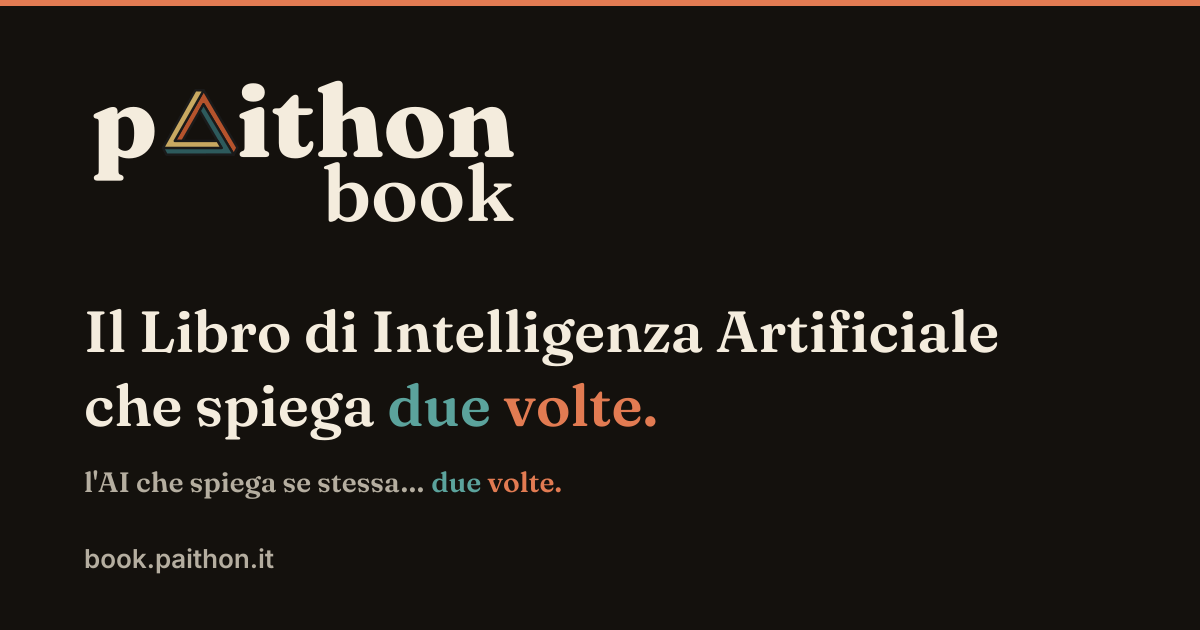
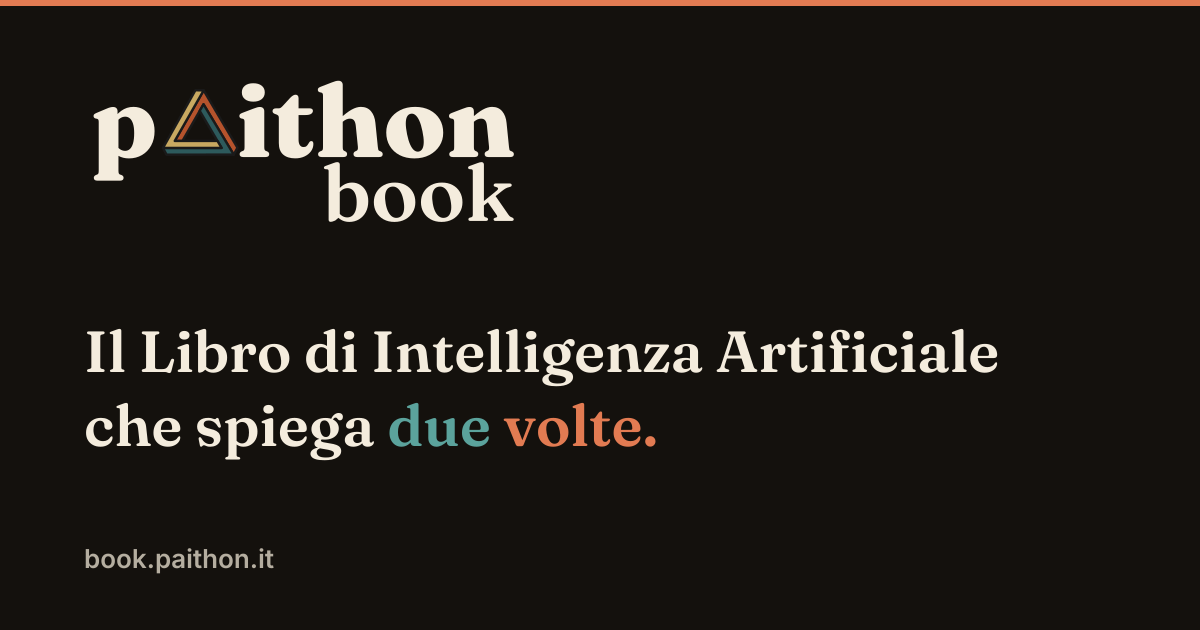
Paithon Book 1.5.8
Include:

- feat(deploy): il deposito su Zenodo, e le dipendenze dichiarate in un file
- content(landing): «Leggilo nel browser», e basta
- fix(marchio): una riga sola per superficie, ed è il claim
- content(dati): i dati sono per le macchine quello che l'ossigeno è per noi
- content(conclusioni): il campo di casa, cioè dove la domanda «è più brava di noi» ha senso
- content(conclusioni): due compiti invece di tre, e detti in chiaro
- chore(radice): sitemap

Pubblicato-da: ac65393389c9e2d87e515f6cdc7a496b0f0d6da9

Changed region(s): [[0.0617, 0.4825, 0.8325, 0.7841]]

diff --git a/book/_static/head_custom.html b/book/_static/head_custom.html
@@ -83,9 +83,6 @@
       aggiornamenti si presentavano a Google e a chi condivideva il link come
       se fossero la copertina del libro. -#}
 {%- set pt_claim = 'Paithon Book: Il Libro di Intelligenza Artificiale che spiega due volte.' -%}
-{#- Il testo alternativo della card social descrive la card, quindi porta
-    tutte e due le righe che ci stanno stampate: il claim e il sottotesto. -#}
-{%- set pt_card_alt = pt_claim ~ ' l\'AI che spiega se stessa… due volte.' -%}
 {%- set pt_sommario_libro = 'Libro di Intelligenza Artificiale in italiano, su due livelli: Elementare per chi parte da zero, Superiore per la trattazione formale. Machine Learning, Deep Learning e Reinforcement Learning con Python. Online, gratuito, in aggiornamento continuo.' -%}
 {#- Le pagine di servizio del tema (l'indice dei termini, la ricerca) non sono
     contenuto: nessun dato strutturato e `noindex`, o finiscono nei risultati al
@@ -108,13 +105,13 @@
 <meta property="og:image:type" content="image/png">
 <meta property="og:image:width" content="1200">
 <meta property="og:image:height" content="630">
-<meta property="og:image:alt" content="{{ pt_card_alt | e }}">
+<meta property="og:image:alt" content="{{ pt_claim | e }}">
 
 <!-- Twitter Card -->
 <meta name="twitter:card" content="summary_large_image">
 <meta name="twitter:title" content="{{ pt_titolo | e }}">
 <meta name="twitter:image" content="https://book.paithon.it/main/_static/social/og-book.png">
-<meta name="twitter:image:alt" content="{{ pt_card_alt | e }}">
+<meta name="twitter:image:alt" content="{{ pt_claim | e }}">
 <meta name="twitter:description" content="{{ pt_sommario | e }}">
 
 <!-- SEO Meta Tags -->

diff --git a/book/_ext/pt_stampa.py b/book/_ext/pt_stampa.py
@@ -516,9 +516,11 @@ FRONTESPIZIO = r"""
   % (LuaLaTeX non se ne lamenta: la copertina «riesce» lo stesso). Chi tocca
   % il corpo del claim, la larghezza del marchio o uno di questi \vspace
   % rifaccia il conto: `genera-pdf.py` lo verifica da se' a fine build, e con
-  % questi valori il margine e' meno di 4mm.
+  % questi valori il margine e' una decina di millimetri: tolto il sottotesto
+  % la copertina ha ritrovato spazio, e una parte e' tornata al marchio e
+  % all'aria sopra la firma invece di restare margine inutilizzato.
   \IfFileExists{marchio.pdf}{%
-    \includegraphics[width=88mm]{marchio.pdf}\par\vspace{5mm}}{%
+    \includegraphics[width=96mm]{marchio.pdf}\par\vspace{5mm}}{%
     {\ptDisplay\fontsize{50}{54}\selectfont Paithon Book\par}\vspace{4mm}}%
   {\color{ptTerracotta}\rule{42mm}{2.4pt}\par}
   \vspace{5mm}
@@ -531,22 +533,17 @@ FRONTESPIZIO = r"""
   {\ptDisplay\fontsize{22}{27}\selectfont
    Il Libro di Intelligenza Artificiale\\
    che spiega \textcolor{ptTeal}{due} \textcolor{ptTerracotta}{volte.}\par}
-  \vspace{3mm}
-  % Il sottotesto: dice come il libro e' fatto, non di che cosa parla. La
-  % Prefazione lo spiega per esteso.
-  % «due» e «volte» nei colori dei due livelli, gli stessi del sito: teal per
-  % l'Elementare, terracotta per il Superiore. Vanno in quest'ordine e non
-  % nell'altro: sul sito «due» e' `--accent-color`, che e' il verde petrolio.
-  % I puntini sono suoi e restano suoi: nel claim non ci vanno, o la stessa
-  % sospensione si ripeterebbe due volte a quattro righe di distanza.
-  {\ptDisplayLeggero\itshape\fontsize{16}{21}\selectfont
-   l'AI che spiega se stessa\ldots{}
-   \textcolor{ptTeal}{due} \textcolor{ptTerracotta}{volte.}\par}
+  % QUI SOTTO NON VA IL SOTTOTESTO, e per un po' c'e' stato. «l'AI che spiega
+  % se stessa... due volte» e' una riga bella, ma sotto al claim diventa un'eco:
+  % finiscono tutte e due su «due volte», a quattro centimetri di distanza, e
+  % la seconda sembra la prima detta peggio. Una copertina dice una cosa. Il
+  % sottotesto resta dov'e' una postilla e non un secondo titolo, cioe' sulla
+  % landing, dove la Prefazione poi lo spiega per esteso.
   % Il sottotitolo lungo («Machine Learning, Deep Learning e Reinforcement
   % Learning con Python») non e' in copertina: dice di che cosa parla il
   % libro, e il sottotesto dice gia' che cos'e'. Resta nel colophon, dove
   % serve per citarlo: li' e' un dato bibliografico, non un richiamo.
-  \vspace{8mm}
+  \vspace{12mm}
   {\ptDisplay\Large Francesco Messina\par}
 \end{flushleft}
 \vspace*{\stretch{1}}

diff --git a/scripts/genera-pdf.py b/scripts/genera-pdf.py
@@ -246,6 +246,19 @@ def rilascia(pdf: pathlib.Path, conferma: bool) -> None:
     if not pdf.exists():
         sys.exit(f"il PDF non c'e': {pdf}. Prima si costruisce.")
 
+    # IL NUMERO E IL FILE ARRIVANO DA DUE POSTI DIVERSI, e non e' un dettaglio:
+    # il numero lo dice il registro, il file sta su disco, e finche' non li si
+    # confronta possono raccontare due versioni diverse. E' successo: la 1.5.7
+    # e' uscita con dentro un PDF che in copertina diceva 1.5.6, perche' era
+    # stato costruito prima di aggiungere la voce al registro. Nessuno se n'era
+    # accorto perche' tutto funzionava, e il numero giusto lo scriveva il tag.
+    # La copertina il numero lo stampa: si legge di li'.
+    stampata = versione_stampata(pdf)
+    if stampata and stampata != numero:
+        sys.exit(f"il PDF in copertina dice {stampata}, il registro {numero}: "
+                 f"e' il PDF di un'altra versione.\n"
+                 f"  Ricostruiscilo: python3 scripts/genera-pdf.py")
+
     # CHI firma. Una release porta il nome dell'account attivo di `gh`, e su
     # questa macchina ce n'e' piu' di uno: il primo giro sarebbe uscito a nome
     # di un account personale invece che del progetto. Non e' un dettaglio
@@ -321,6 +334,22 @@ def ricompatta(pdf: pathlib.Path) -> None:
               f"-> {pdf.stat().st_size / 1024 / 1024:.0f} MB")
 
 
+def versione_stampata(pdf: pathlib.Path) -> str | None:
+    """Il numero che il PDF si porta stampato sulla copertina.
+
+    Il nome del file non lo dice (e' sempre lo stesso) e la data di modifica
+    nemmeno. La copertina invece porta «1.5.7 del 15 agosto 2026», scritto dal
+    registro nel momento in cui il libro e' stato composto: e' l'unica prova
+    di quale versione sia davvero quel file.
+    """
+    try:
+        import fitz
+    except ImportError:
+        return None
+    trovato = re.search(r"\b(\d+\.\d+\.\d+) del ", fitz.open(pdf)[0].get_text())
+    return trovato.group(1) if trovato else None
+
+
 def copertina_intera(pdf: pathlib.Path) -> str | None:
     """La copertina sta ancora in una pagina sola?
 
@@ -344,7 +373,7 @@ def copertina_intera(pdf: pathlib.Path) -> str | None:
     testo = prima.get_text()
     manca = [nome for nome, presente in (
         ("il claim", "che spiega due volte" in testo),
-        ("il sottotesto", "spiega se stessa" in testo),
+        ("l'autore", "Francesco Messina" in testo),
         ("l'indirizzo del libro", "book.paithon.it" in testo),
         ("il fregio", len(prima.get_drawings()) > 100),
     ) if not presente]

diff --git a/scripts/genera-og.py b/scripts/genera-og.py
@@ -52,11 +52,10 @@ CLAIM = [
     [("Il Libro di Intelligenza Artificiale", INCHIOSTRO)],
     [("che spiega ", INCHIOSTRO), ("due ", TEAL), ("volte.", TERRACOTTA)],
 ]
-# Il sottotesto, la riga che sulla landing sta sotto il claim e che in stampa
-# è in copertina. Qui mancava, e la card diceva metà di quello che dicono le
-# altre superfici. I puntini sono suoi: nel claim non ci vanno.
-SOTTOTESTO = [("l'AI che spiega se stessa… ", TENUE), ("due ", TEAL),
-              ("volte.", TERRACOTTA)]
+# Il sottotesto («l'AI che spiega se stessa… due volte») qui NON ci va, e per
+# un po' c'è stato: sotto al claim diventa un'eco, perché finiscono tutte e due
+# su «due volte» e la seconda sembra la prima detta peggio. Una card dice una
+# cosa sola. Il sottotesto vive sulla landing, dov'è una postilla.
 PIEDE = "book.paithon.it"
 
 
@@ -108,7 +107,7 @@ def main() -> None:
         logo(84, 74, 430),
     ]
 
-    y = 352
+    y = 372
     for riga in CLAIM:
         x = 84.0
         for parole, colore in riga:
@@ -116,16 +115,6 @@ def main() -> None:
             parti.append(gruppo)
             x += larghezza
         y += 74
-
-    # Il sottotesto, in corpo minore: sulla landing è una postilla, e una
-    # postilla che gridasse quanto il claim non sarebbe più una postilla.
-    # Sta più vicino al claim che al piede, perché è del claim: a distanze
-    # uguali si leggerebbe come una seconda riga dell'indirizzo.
-    x = 84.0
-    for parole, colore in SOTTOTESTO:
-        gruppo, larghezza = testo_vettoriale(parole, display, 28, x, y - 8, colore)
-        parti.append(gruppo)
-        x += larghezza
 
     # Niente simbolo accanto al claim: i due colori dicono già che i livelli
     # sono due, e il segno accanto era una ripetizione.

diff --git a/book/Conclusioni/overview.md b/book/Conclusioni/overview.md
@@ -143,9 +143,22 @@ capitoli sul mestiere (produzione, interpretabilità, responsabilità) non stann
 su questo asse: stanno attorno a tutto.
 ```
 
-I **dati** sono il carburante: nessun modello sa più di ciò che ha visto. Le
-**rappresentazioni apprese** sono il cuore, cioè la parte che il deep learning
-ha cambiato più di ogni altra.
+I **dati** vengono prima di tutto: nessun modello sa più di ciò che ha visto.
+L'introduzione li ha paragonati all'ossigeno, e adesso che il percorso è finito
+quel paragone si può stringere. L'ossigeno è l'avanzo di una vita che non era
+la nostra, e noi siamo diventati quello che siamo imparando a respirarlo; i
+dati sono l'avanzo del nostro passaggio nel mondo digitale, e ogni macchina di
+questo libro è un modo diverso di respirare quello. Le reti convoluzionali
+respirano immagini, i Transformer testo, le reti su grafo relazioni fra cose.
+Cambia il polmone, l'aria è sempre quella.
+
+Ed è il filo che spiega perché il libro insista tanto su cose che sembrano
+noiose accanto alle architetture: come si dividono i dati, che cosa succede
+quando cambiano sotto i piedi, chi li ha lasciati e se era d'accordo. Un
+modello non è più intelligente dell'aria che gli hai dato da respirare.
+
+Le **rappresentazioni apprese** sono il cuore, cioè la parte che il deep
+learning ha cambiato più di ogni altra.
 
 `````{tab} Elementare
 Per decenni, per far riconoscere un gatto a un computer, un esperto doveva
@@ -447,6 +460,64 @@ come tale: i **modelli del mondo**, cioè imparare la dinamica dell'ambiente
 invece delle sole correlazioni nei dati. Se funzionasse su larga scala,
 cambierebbe l'ordine dei capitoli di un libro come questo.
 `````
+
+## Il campo di casa
+
+Prima o poi la domanda arriva, di solito a cena: è più intelligente di noi?
+
+Messa così non ha risposta, e non per prudenza: manca il *dove*. Nessuno
+chiederebbe se un pesce nuota meglio di un uomo senza dire in quale acqua.
+
+Il posto dove queste macchine nuotano ha un nome preciso, ed è il **mondo
+digitale**. Lì tutto è già nella forma che serve a loro. Ogni cosa è già un
+numero, e non c'è da andare a misurarla. Ogni azione costa quasi niente e si
+può ripetere un miliardo di volte. Ogni partita finita lascia scritto chi ha
+vinto, quindi c'è da imparare a costo zero. E sbagliare non rompe niente: si
+ricomincia. Gli scacchi, il go, il codice, il testo, le immagini sono tutti
+mondi fatti di quella sostanza, ed è lì che sono arrivati per primi i
+risultati che hanno fatto notizia. Torna il discorso dell'aria: il mondo
+digitale è il posto in cui i dati sono densi, e lì un polmone respira a
+pieno.
+
+Non è una gara alla pari, è una **partita in casa**. E la cosa da portarsi via
+è che il vantaggio non viene dall'intelligenza, viene dal terreno.
+
+Fuori, il conto si rovescia, ed è un'osservazione vecchia di decenni. Nel
+1988 Hans Moravec notò che dare a un computer le prestazioni di
+un adulto in un test di intelligenza o a dama è relativamente facile, mentre
+dargli le capacità di un bambino di un anno nel percepire e nel muoversi è
+difficile o impossibile {cite}`moravec1988mind`. La ragione sta nei tempi: il
+ragionamento astratto lo abbiamo imparato in qualche migliaio di anni e
+sappiamo dirlo a parole; il resto lo abbiamo affinato in qualche centinaio di
+milioni, e nessuno sa come si scriva.
+
+Da qui viene la tentazione di rilassarsi, perché a noi resterebbe il mondo
+vero. È giusto a metà, e la metà che manca conta.
+
+La prima cosa che manca è che **il campo si allarga**. Ogni sensore, ogni
+telecamera, ogni pagamento tracciato prende un pezzo di mondo analogico e lo
+converte in mondo digitale, cioè lo porta dentro casa loro. È il rovescio di
+quello che l'introduzione chiamava scarto: ciò che lasciamo dietro non è solo
+l'aria che respirano, è anche il terreno su cui giocano. La robotica è il
+tentativo di portare la partita all'aperto, ed è il posto in cui i progressi
+sono più lenti e più cari: conferma la regola, non la smentisce.
+
+La seconda è che quello che resta nostro non è un **territorio**, è un
+**mestiere**: un territorio si perde, e ce ne si accorge quando qualcun altro
+ci sta già giocando.
+
+Sono due cose. La prima è **rispondere** di una scelta, e in italiano quella
+parola ne vuol dire due: dare una risposta, e assumersi le conseguenze. Una
+macchina fa la prima cosa benissimo e la seconda non può farla, perché quando
+una decisione fa un danno, davanti a chi l'ha subìto non si presenta un
+modello. La seconda è **decidere quale partita giocare**: un sistema ottimizza
+il punteggio che gli abbiamo dato, e lo fa meglio di noi, ma se quel punteggio
+sia quello giusto è una domanda che sta fuori dal campo. Non è che la macchina
+la sbagli: è che lì dentro non esiste.
+
+Sapere dove si sta giocando è anche il modo migliore per leggere la prossima
+notizia che ti capiterà sotto gli occhi. Prima di chiederti quanto sia brava,
+chiediti se giocava in casa.
 
 ## Una nota onesta
 

diff --git a/book/Introduzione/overview.md b/book/Introduzione/overview.md
@@ -496,7 +496,40 @@ learning li conta uno per uno; quanto pesi ciascuno dei tre si può perfino
 misurare, e lo fa il capitolo sui **Transformer**, che sono i modelli nati da
 quell'articolo del 2017 di cui si diceva all'inizio.
 
-Il debito, peraltro, è stato ripagato con gli interessi
+Su che cosa siano quei dati vale la pena fermarsi, perché è la cosa che si
+fraintende più spesso. Non sono un giacimento che qualcuno è andato a scavare.
+Sono uno **scarto**. Nessuno si alza la mattina per produrre dati: li lascia
+dietro di sé mentre fa altro, cercando un indirizzo, comprando un libro,
+scrivendo a un amico, guardando un video fino in fondo o smettendo al secondo
+minuto. Sono la traccia di un passaggio, non il prodotto di un'intenzione.
+
+C'è un precedente, ed è successo su scala planetaria. Circa due miliardi e
+mezzo di anni fa certi batteri cominciarono a usare la luce del sole per
+spezzare l'acqua, e buttarono via quel che ne avanzava: **ossigeno**
+{cite}`lyons2014rise`. A loro non serviva a niente. Per la vita di allora era
+anzi un veleno, perché era cresciuta in un mondo che non ne aveva mai avuto.
+L'atmosfera ci mise moltissimo a riempirsene, e i livelli vicini a quelli di
+oggi arrivarono due miliardi di anni più tardi. Lungo quella strada comparve
+una forma di vita che di quello scarto faceva il proprio respiro, e ne ricavava
+molta più energia di prima. Quella forma di vita siamo noi: respiriamo, alla
+lettera, il rifiuto di qualcun altro.
+
+I dati stanno alle macchine come l'ossigeno sta a noi. Sono l'avanzo del nostro
+passaggio nel mondo digitale, prodotto senza volerlo e in quantità che nessuno
+ha deciso; e sopra quell'avanzo è cresciuta una cosa che di lì trae il proprio
+respiro. È la ragione per cui in questo libro i dati pesano quanto gli
+algoritmi: l'algoritmo è il polmone, i dati sono l'aria, e un polmone nel vuoto
+non è niente.
+
+C'è però una parte scomoda, e vale quanto l'altra. Quello scarto, prima di
+diventare respiro, fu un veleno: il mondo che viveva senza ossigeno non
+sopravvisse alla sua comparsa. Nel nostro caso quella parte si chiama
+**privacy**: ciò che lasciamo per strada senza pensarci è esattamente ciò di
+cui vive qualcuno che non abbiamo scelto. Il capitolo sull'AI responsabile la
+prende sul serio, in
+{doc}`Privacy e robustezza </AIResponsabile/privacy-e-robustezza>`.
+
+Il debito con l'informatica, peraltro, è stato ripagato con gli interessi
 {cite}`russell2020artificial`: parecchie idee nate nei laboratori di
 intelligenza artificiale hanno poi fatto il giro dell'informatica intera e oggi
 si usano ovunque senza ricordarne la provenienza. La più diffusa è la

diff --git a/book/aggiornamenti.md b/book/aggiornamenti.md
@@ -38,6 +38,22 @@ Una versione corrisponde a una **pubblicazione**, non a una giornata di
 lavoro: il libro si scrive tutti i giorni e si pubblica quando un pezzo sta in
 piedi.
 
+(v1-5-8)=
+
+## 1.5.8 · 15 agosto 2026
+
+### Sezioni nuove
+
+- {doc}`Conclusioni </Conclusioni/overview>`. **«È più intelligente di noi?» è una domanda a cui manca il dove.** Una sezione nuova sostiene che una macchina non è migliore di noi in senso assoluto, ma nel mondo digitale sì, e che quel vantaggio non viene dall'intelligenza: viene dal terreno. Là dentro tutto è già un numero, ogni azione costa niente e si ripete un miliardo di volte, ogni partita finita lascia scritto chi ha vinto. È una partita in casa. La consolazione («a noi resta il mondo reale») regge solo a metà, perché il campo si allarga da sé. Quello che resta nostro non è un territorio, che si può perdere, ma due cose che nessuna quantità di dati sposta: rispondere di una scelta, e decidere quale partita giocare.
+
+### Pagine ampliate
+
+- {doc}`Introduzione </Introduzione/overview>`. **I dati non sono un giacimento, sono uno scarto, e adesso il libro lo dice.** Nessuno si alza la mattina per produrre dati: li lascia dietro di sé mentre fa altro. C'è un precedente, ed è successo su scala planetaria: l'ossigeno che respiriamo è il rifiuto di certi batteri che due miliardi e mezzo di anni fa cominciarono a spezzare l'acqua con la luce del sole, e la vita che se ne nutre è arrivata dopo. Siamo noi. I dati stanno alle macchine come l'ossigeno sta a noi, e l'analogia tiene anche dalla parte scomoda: quello scarto, prima di diventare respiro, fu un veleno.
+
+### Correzioni
+
+- **Il libro dice di sé una cosa sola, e la dice dappertutto uguale.** La copertina del PDF, l'anteprima che compare condividendo un link e il titolo delle pagine portavano tre versioni diverse della stessa frase, e per un po' ne hanno portate perfino due in fila, che finivano tutte e due su «due volte» e sembravano un'eco. Adesso è una riga sola. E dalla home il libro si può aprire nel browser, oltre che scaricare.
+
 (v1-5-7)=
 
 ## 1.5.7 · 15 agosto 2026

diff --git a/book/intro.md b/book/intro.md
@@ -13,7 +13,6 @@
 ```{raw} html
 <p class="pt-claim" aria-hidden="true">Il Libro di Intelligenza Artificiale che spiega
 <span class="pt-claim__el">due</span> <span class="pt-claim__sup">volte.</span></p>
-<p class="pt-sottotesto">l'AI che spiega se stessa&hellip; <span class="pt-claim__el">due</span> <span class="pt-claim__sup">volte.</span></p>
 ```
 
 # Il Libro di Intelligenza Artificiale che spiega due volte.
@@ -80,7 +79,7 @@ si copia; per eseguirlo, l'indirizzo è nel colophon.
 :::{container} pt-scarica
 [**Scarica il libro intero in PDF** · versione {{ versione }}](https://github.com/paithon-it/paithonbook/releases/latest/download/paithon-book.pdf)
 
-[**Oppure leggilo nel browser**, senza scaricare niente](https://doi.org/10.5281/zenodo.21947219)
+[**Leggilo nel browser**](https://doi.org/10.5281/zenodo.21947219)
 
 Tutti i capitoli in un file solo, impaginato per la lettura e per la stampa. Dove qui il libro anima una figura, là trovi tre fermi immagine e l'indirizzo per vederla muoversi. Leggerlo nel browser vuol dire aprirlo su Zenodo, l'archivio del CERN dove il libro è depositato: quel collegamento è il suo **DOI**, l'identificativo permanente che porta sempre all'ultima versione, la mostra pagina per pagina e dà la scheda per citarla.
 :::

diff --git a/README.md b/README.md
@@ -1,12 +1,10 @@
 # Paithon Book
 
-<a href="https://book.paithon.it/main/"><img src="book/_static/social/og-book.png" width="840" alt="Paithon Book: Il Libro di Intelligenza Artificiale che spiega due volte. l'AI che spiega se stessa… due volte."></a>
+<a href="https://book.paithon.it/main/"><img src="book/_static/social/og-book.png" width="840" alt="Paithon Book: Il Libro di Intelligenza Artificiale che spiega due volte."></a>
 
-**Il Libro di Intelligenza Artificiale che spiega due volte.**
-*l'AI che spiega se stessa… due volte.*
-
-Machine Learning, Deep Learning e Reinforcement Learning con Python: in
-italiano, gratis, in aggiornamento continuo.
+**Il Libro di Intelligenza Artificiale che spiega due volte.** Machine
+Learning, Deep Learning e Reinforcement Learning con Python: in italiano,
+gratis, in aggiornamento continuo.
 
 <p>
   <a href="https://book.paithon.it/main/"><img alt="Leggi online" src="https://img.shields.io/badge/Leggi%20online-book.paithon.it-B5532C?style=flat-square"></a>
